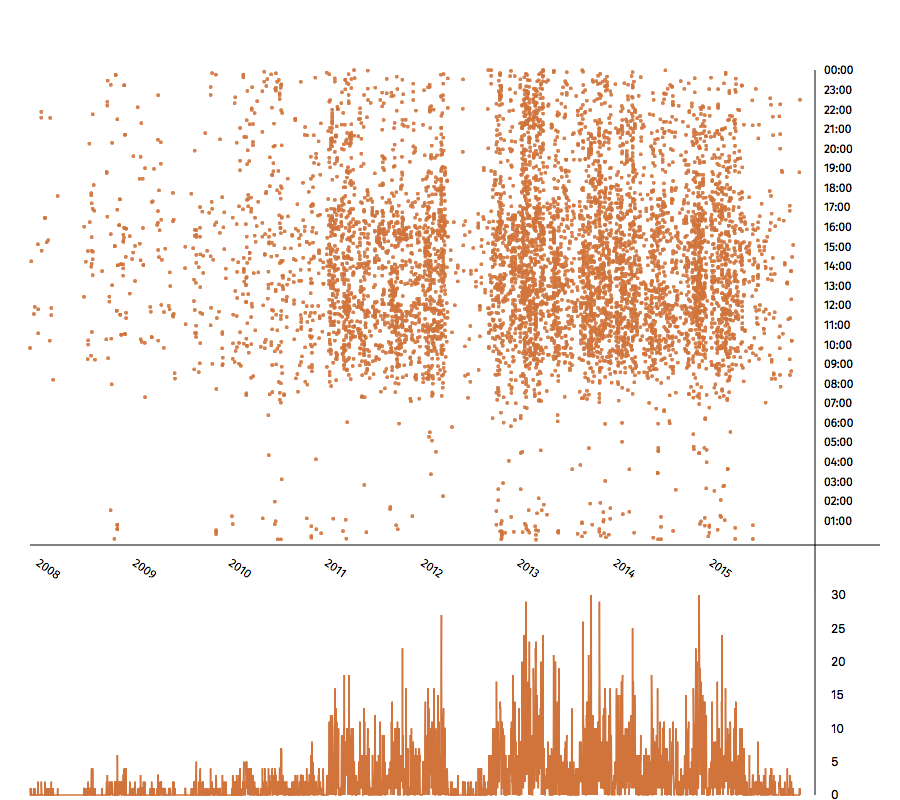
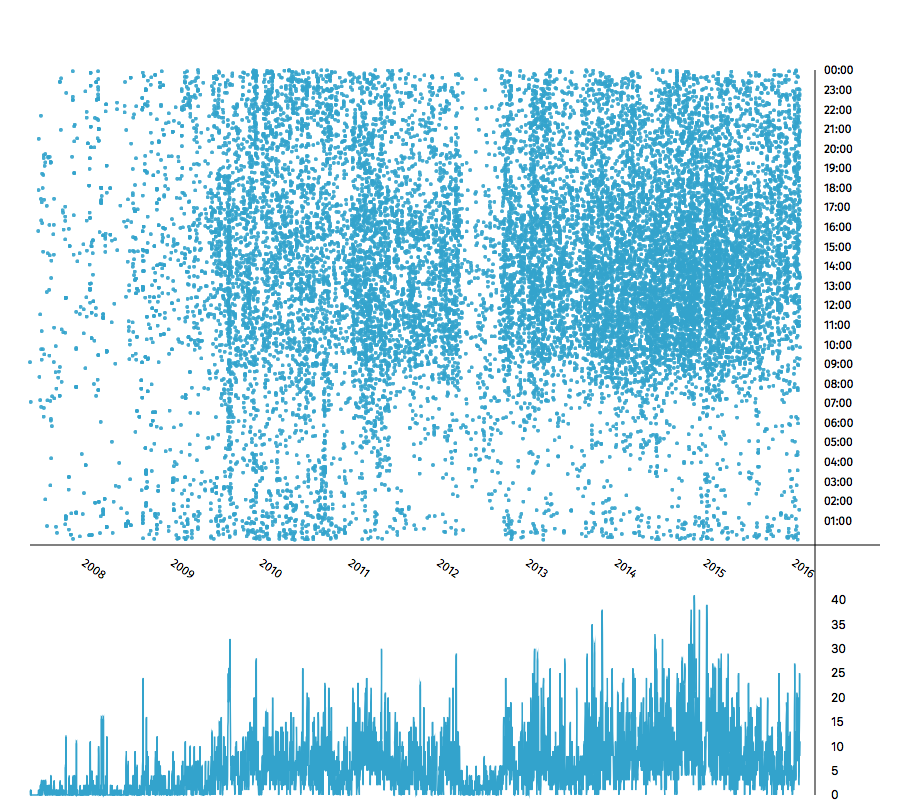
Updates README, default color, and screenshots.
On branch moving-mean
Your branch is up-to-date with 'origin/moving-mean'.

Changes to be committed:
      modified:   README.md
      modified:   Support/HTML/byTime/byTime.js
      modified:   screenshots/by_time_scatterplot.png
      new file:   screenshots/by_time_scatterplot_pink.png
      new file:   screenshots/by_time_scatterplot_pink_movmean.png

diff --git a/Support/HTML/byTime/byTime.js b/Support/HTML/byTime/byTime.js
@@ -277,7 +277,7 @@ function seriesTime(emails) {
         .attr("class", "dot")
         .attr("r", 2 )
         .style("opacity", 0.9)
-        .style("fill", color(3) )
+        .style("fill", "#33a3cc" )
         .attr("cx", function(d) { return x(d.date); })
         .attr("cy", function(d) { return y(d.time); })
 
@@ -306,7 +306,7 @@ function seriesTime(emails) {
         .on('mouseout', function(d) {
             d3.select(this).transition().duration(100)
                 .attr('r', 2)
-                .style('fill', color(3))
+                .style('fill', "#33a3cc")
 
         seriesTooltip.html()
         seriesTooltip.transition()
@@ -451,7 +451,7 @@ function lineTime(emails, movingMeanWindow, overrideWindow) {
     timeGraph.append('path')
         .attr('id', 'lineplot')
         .attr('d', linePlotFunc(cleanedData) )
-        .attr('stroke', color(3))
+        .attr('stroke', "#33a3cc")
         .attr('fill', 'none')
         .style('stroke-width', 1.5)
 
@@ -492,7 +492,7 @@ $("#colorpicker").spectrum({
     showInput: true,
     showInitial: true,
     preferredFormat: "hex",
-    color: "#6b486b"
+    color: "#33a3cc"
 });
 
 $("#colorpicker").on('change.spectrum', function(e, tinycolor) {

diff --git a/README.md b/README.md
@@ -8,6 +8,14 @@ Visualize email history and trends.
 
 ![Scatterplot of selected emails over time](screenshots/by_time_scatterplot.png)
 
+You can change colors.
+
+![Different color](screenshots/by_time_scatterplot_pink.png)
+
+And even plot a moving average instead of raw numbers.
+
+![Moving average](screenshots/by_time_scatterplot_pink_movmean.png)
+
 # Installation
 
 You can install this bundle in MailMate by opening the preferences and going to the bundles tab. After installation it will be automatically updated for you.
